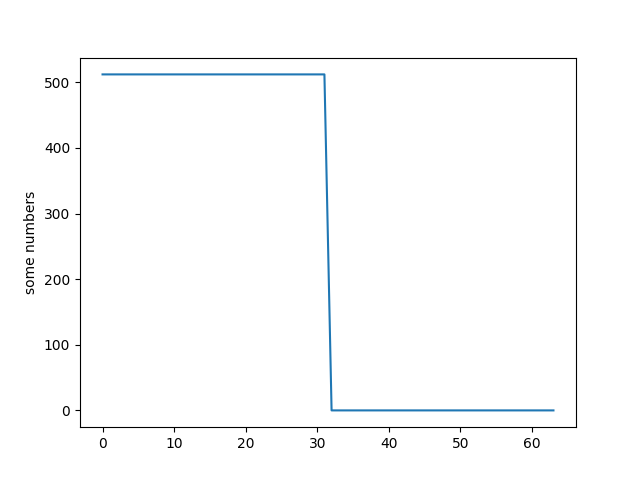
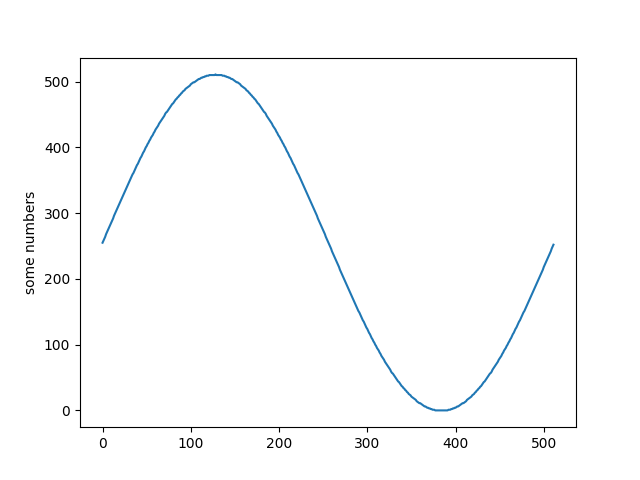
New changes

diff --git a/UltraVCO/src/main.cpp b/UltraVCO/src/main.cpp
@@ -23,24 +23,16 @@
 #define LED1_PORT GPIOC
 #define LED1_PIN GPIO13
 
+constexpr uint16_t adc_vals[4095]{};
+
 constexpr int PWM_RESOLUTION_BITS = 8;
 //2^8 = 256 values, from 0 to 255
 constexpr int PWM_RESOLUTION = 2 << PWM_RESOLUTION_BITS;
 
-// constexpr auto wave_table = triangle64_tab;
-// constexpr int wave_table_len = 64;
-
-// constexpr auto wave_table = sinus64_tab;
-// constexpr int wave_table_len = 64;
-
-// constexpr auto wave_table = saw64_tab;
-// constexpr int wave_table_len = 64;
-
-// constexpr auto wave_table = square64_tab;
-
 const float *wave_table;
 
-constexpr int wave_table_len = 64;
+constexpr int wave_table_len = 512;
+int wave_table_step = 10;
 
 //adc value is from 0 to 4095
 volatile uint16_t adc_res[3];
@@ -53,21 +45,26 @@ void delay(uint32_t n) {
 
 inline void chooseWave(){
 	uint16_t wave_select = adc_res[2];
-	if(wave_select < 1024){
-		wave_table = triangle64_tab;
-	} else if(wave_select < 2048){
-		wave_table = triangle64_tab;
-	} else if(wave_select < 3072){
-		wave_table = saw64_tab;
-	} else{
-		wave_table = square64_tab;
+	if(wave_select < 900){
+		wave_table = sinus_tab;
+	} else if(wave_select > 1024 && wave_select < 1900){
+		wave_table = triangle_tab;
+	} else if(wave_select > 2048 && wave_select < 3072){
+		wave_table = saw_tab;
+	} else if(wave_select > 2900){
+		wave_table = square_tab;
 	}
+}
+
+inline void chooseStep(){
+	uint16_t step_select = adc_res[1];
+	wave_table_step = step_select / 256;
 }
 
 static void clock_setup(void)
 {
-	// rcc_clock_setup_in_hse_8mhz_out_72mhz();
-    rcc_clock_setup_in_hse_8mhz_out_128mhz();
+	rcc_clock_setup_in_hse_8mhz_out_72mhz();
+    // rcc_clock_setup_in_hse_8mhz_out_128mhz();
     rcc_periph_clock_enable(RCC_TIM1);
     rcc_periph_clock_enable(RCC_GPIOA);
 	rcc_periph_clock_enable(RCC_GPIOC);
@@ -187,8 +184,9 @@ void tim2_isr(void)
 	if (timer_get_flag(TIM2, TIM_SR_CC1IF)) {
 		timer_clear_flag(TIM2, TIM_SR_CC1IF);
 		chooseWave();
+		chooseStep();
         timer_set_oc_value(TIM1, TIM_OC1, wave_table[wave_counter]);
-		wave_counter = wave_counter >= (wave_table_len-1) ? 0 : wave_counter + 1;
+		wave_counter = wave_counter >= (wave_table_len-wave_table_step) ? 0 : wave_counter + wave_table_step;
 		// int i = adc_res[0];
 		// timer_set_period(TIM2, adc_res[0]);
 		// timer_set_period(TIM2, 600);
@@ -197,7 +195,7 @@ void tim2_isr(void)
 }
 
 int main(void)
-{
+{ 
 	clock_setup();
 	gpio_setup();
 	interrupt_tim_setup();
@@ -214,6 +212,13 @@ int main(void)
         }
         // delay(80000);
     }
+
+	while(1){
+		gpio_set(GPIOC, GPIO13);
+		delay(100000);
+		gpio_clear(GPIOC, GPIO13);
+		delay(100000);
+	}
 
 	return 0;
 }

diff --git a/UltraVCO/waveshapes_generatiom/generate_sinus.py b/UltraVCO/waveshapes_generatiom/generate_sinus.py
@@ -5,7 +5,7 @@ from math import pi, sin, cos
 import matplotlib.pyplot as plt
 
 MAX_DAC_VALUE = 512
-STEPS = 16
+STEPS = 512
 
 x_tab = arange(0, 2 * pi, pi / (STEPS/2))
 sinus = []

diff --git a/UltraVCO/waveshapes_generatiom/generate_square.py b/UltraVCO/waveshapes_generatiom/generate_square.py
@@ -5,7 +5,7 @@ from math import pi, sin, cos
 import matplotlib.pyplot as plt
 
 MAX_DAC_VALUE = 512
-STEPS = 64
+STEPS = 512
 
 x_tab = arange(0, 2 * pi, pi / (STEPS/2))
 sinus = []

diff --git a/UltraVCO/waveshapes_generatiom/generate_saw.py b/UltraVCO/waveshapes_generatiom/generate_saw.py
@@ -5,7 +5,7 @@ from math import pi, sin, cos
 import matplotlib.pyplot as plt
 
 MAX_DAC_VALUE = 512
-STEPS = 64
+STEPS = 512
 
 x_tab = arange(0, 2 * pi, 0.1)
 traingle = []

diff --git a/UltraVCO/waveshapes_generatiom/generate_traingle.py b/UltraVCO/waveshapes_generatiom/generate_traingle.py
@@ -4,7 +4,7 @@ from math import pi, sin, cos
 import matplotlib.pyplot as plt
 
 MAX_DAC_VALUE = 512
-STEPS = 16
+STEPS = 512
 
 x_tab = arange(0, 2 * pi, 0.1)
 traingle = []
